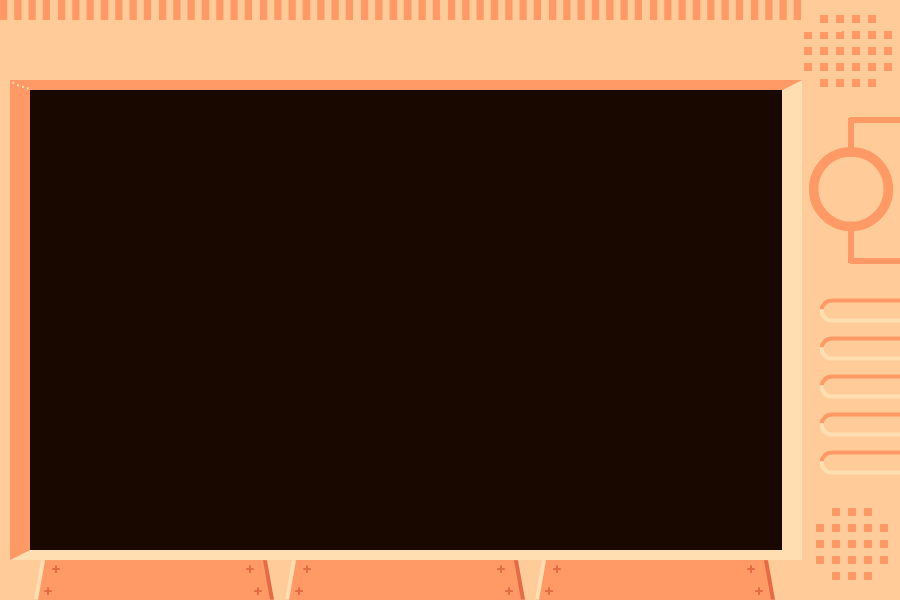
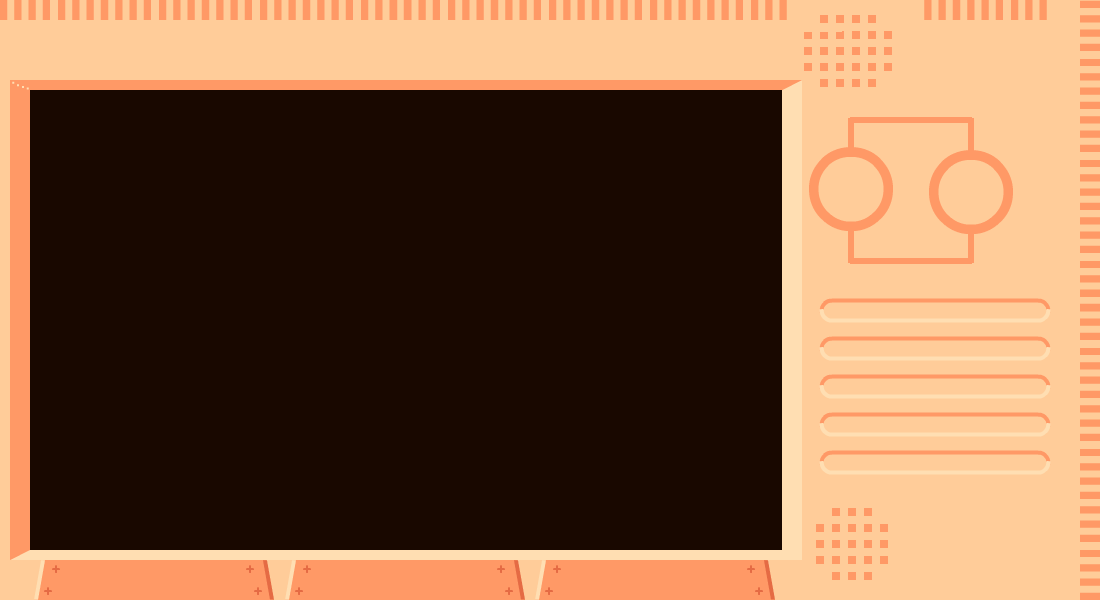
16:9 fix

diff --git a/desktop/src/com/lowpolywolf/talksim/desktop/DesktopLauncher.java b/desktop/src/com/lowpolywolf/talksim/desktop/DesktopLauncher.java
@@ -9,8 +9,8 @@ public class DesktopLauncher {
 	public static void main (String[] arg) {
 		LwjglApplicationConfiguration config = new LwjglApplicationConfiguration();
 
-		config.width = G.TARGET_WIDTH;
-		config.height = G.TARGET_HEIGHT;
+		config.width = 1280;
+		config.height = 720;
 
 		new LwjglApplication(new TalkSim(), config);
 	}
